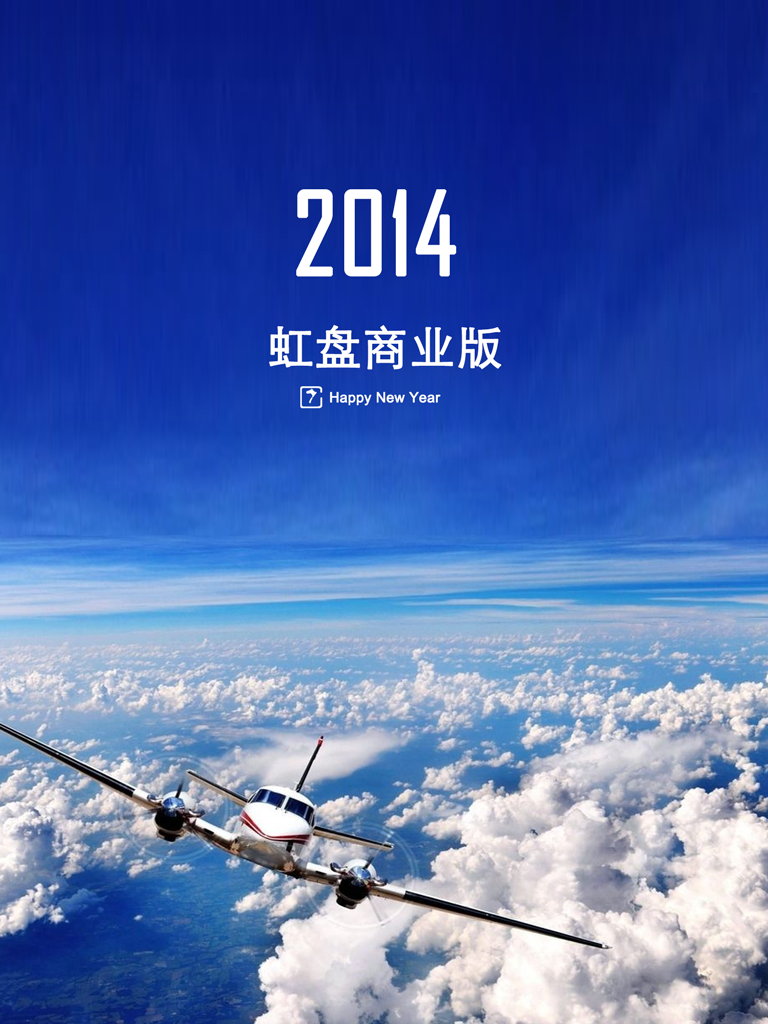
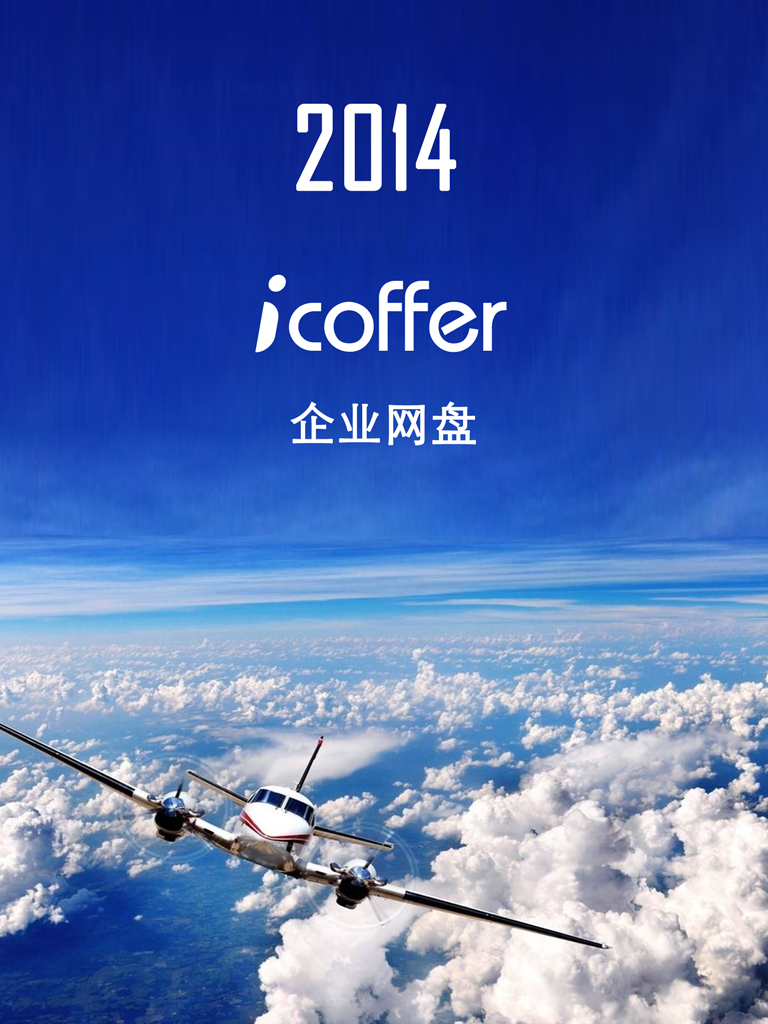
修改名字; icoffer
git-svn-id: https://192.168.1.2/svn/IOS/ent/src/PadEnt7cbox@897 147e8b5b-d571-564c-a00e-a70077d221f8

Changed region(s): [[0.3125, 0.0938, 0.6562, 0.4375]]

diff --git a/DownLoad&UpLoadController/Look/PartitionViewController.m b/DownLoad&UpLoadController/Look/PartitionViewController.m
@@ -1476,7 +1476,7 @@
     if(sharedType == 1)
     {
         //短信分享
-        NSString *text=[NSString stringWithFormat:@"%@想和您分享虹盘的文件，链接地址：%@",[[NSUserDefaults standardUserDefaults] objectForKey:@"usr_name"],l_url];
+        NSString *text=[NSString stringWithFormat:@"%@想和您分享icoffer企业网盘的文件，链接地址：%@",[[NSUserDefaults standardUserDefaults] objectForKey:@"usr_name"],l_url];
         
         if ([MFMessageComposeViewController canSendText]) {
             MFMessageComposeViewController *picker = [[MFMessageComposeViewController alloc] init];
@@ -1489,7 +1489,7 @@
     else if(sharedType == 2)
     {
         //邮件分享
-        NSString *text=[NSString stringWithFormat:@"%@想和您分享虹盘的文件，链接地址：%@",[[NSUserDefaults standardUserDefaults] objectForKey:@"usr_name"],l_url];
+        NSString *text=[NSString stringWithFormat:@"%@想和您分享icoffer企业网盘的文件，链接地址：%@",[[NSUserDefaults standardUserDefaults] objectForKey:@"usr_name"],l_url];
         
         if ([MFMailComposeViewController canSendMail]) {
             MFMailComposeViewController *picker = [[MFMailComposeViewController alloc] init];

diff --git a/DownLoad&UpLoadController/Look/PhotoLookViewController.m b/DownLoad&UpLoadController/Look/PhotoLookViewController.m
@@ -1333,7 +1333,7 @@
     if(sharedType == 1)
     {
         //短信分享
-        NSString *text=[NSString stringWithFormat:@"%@想和您分享虹盘的文件，链接地址：%@",[[NSUserDefaults standardUserDefaults] objectForKey:@"usr_name"],l_url];
+        NSString *text=[NSString stringWithFormat:@"%@想和您分享icoffer企业网盘的文件，链接地址：%@",[[NSUserDefaults standardUserDefaults] objectForKey:@"usr_name"],l_url];
         
         if ([MFMessageComposeViewController canSendText]) {
             MFMessageComposeViewController *picker = [[MFMessageComposeViewController alloc] init];
@@ -1346,7 +1346,7 @@
     else if(sharedType == 2)
     {
         //邮件分享
-        NSString *text=[NSString stringWithFormat:@"%@想和您分享虹盘的文件，链接地址：%@",[[NSUserDefaults standardUserDefaults] objectForKey:@"usr_name"],l_url];
+        NSString *text=[NSString stringWithFormat:@"%@想和您分享icoffer企业网盘的文件，链接地址：%@",[[NSUserDefaults standardUserDefaults] objectForKey:@"usr_name"],l_url];
         
         if ([MFMailComposeViewController canSendMail]) {
             MFMailComposeViewController *picker = [[MFMailComposeViewController alloc] init];

diff --git a/SettingController/SettingViewController.m b/SettingController/SettingViewController.m
@@ -490,7 +490,7 @@ typedef enum{
         case  kABAuthorizationStatusRestricted:
         {
             UIAlertView *alert = [[UIAlertView alloc] initWithTitle:@"没有打开通讯录权限"
-                                                            message:@"因iOS系统限制，需要读取联系人信息才能导入通讯录\n 步骤：设置-隐私-通讯录-虹盘商业版"
+                                                            message:@"因iOS系统限制，需要读取联系人信息才能导入通讯录\n 步骤：设置-隐私-通讯录-icoffer"
                                                            delegate:nil
                                                   cancelButtonTitle:@"确定"
                                                   otherButtonTitles:nil];

diff --git a/Configuration/PConfig.h b/Configuration/PConfig.h
@@ -9,7 +9,7 @@
 #ifndef NetDisk_PConfig_h
 #define NetDisk_PConfig_h
 #define VERSION [NSBundle mainBundle].infoDictionary[@"CFBundleShortVersionString"]
-#define BUILD_VERSION @"1"
+#define BUILD_VERSION @"2"
 //#define BUILD_VERSION [NSBundle mainBundle].infoDictionary[@"CFBundleVersion"]
 //#define APPSTORE_URL @"https://itunes.apple.com/us/app/hong-pan-shang-ye-ban/id737677663?ls=1&mt=8"
 #define APPSTORE_URL @"itms-apps://itunes.apple.com/app/id808080594"

diff --git a/API/SCBoxConfig.h b/API/SCBoxConfig.h
@@ -14,8 +14,8 @@
 #define RESPONSE_TIMEOUT 10
 #define CONNECT_MAX 60*3
 //商业版URL
-//#define HOST_URL @"http://192.168.1.9/"
-#define HOST_URL @"http://b.7cbox.cn/"
+#define HOST_URL @"http://192.168.1.9/"
+//#define HOST_URL @"http://b.7cbox.cn/"
 //#define HOST_URL @"http://192.168.1.51:8080/"
 //#define HOST_URL @"http://xianzhouhe.eicp.net:81/"
 #define SERVER_URL [NSString stringWithFormat:@"%@%@",HOST_URL,@"biz/ent"]
